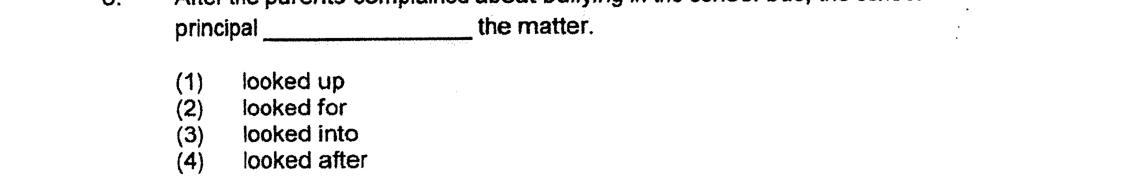
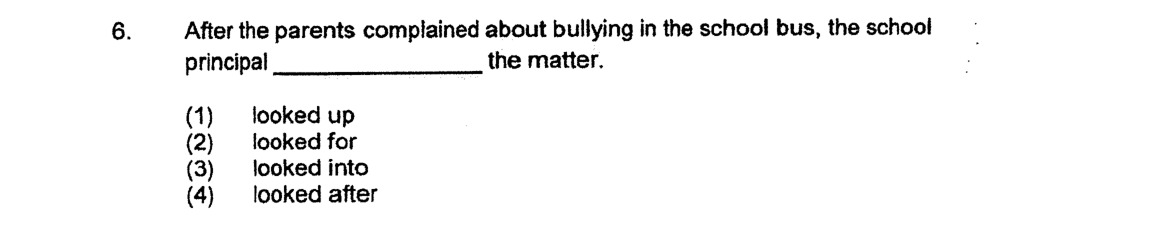
P4 English question bank: 3,808 questions

diff --git a/sw.js b/sw.js
@@ -1,5 +1,5 @@
 /* P4 English Question Bank - offline cache */
-const CACHE = 'p4-english-bank-v6';
+const CACHE = 'p4-english-bank-v7';
 const CORE = [
   './', './index.html', './offline.html',
   './data/question_bank.json', './data/vocab.json',
